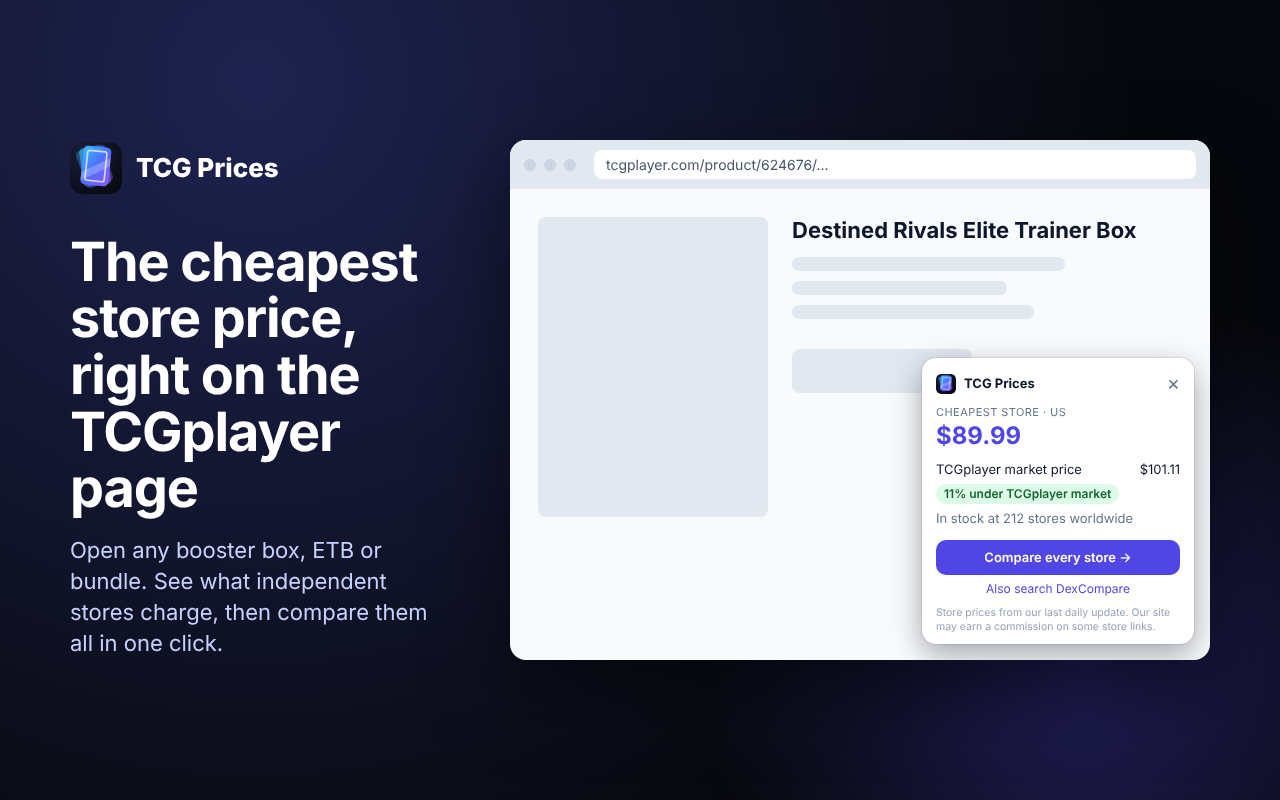
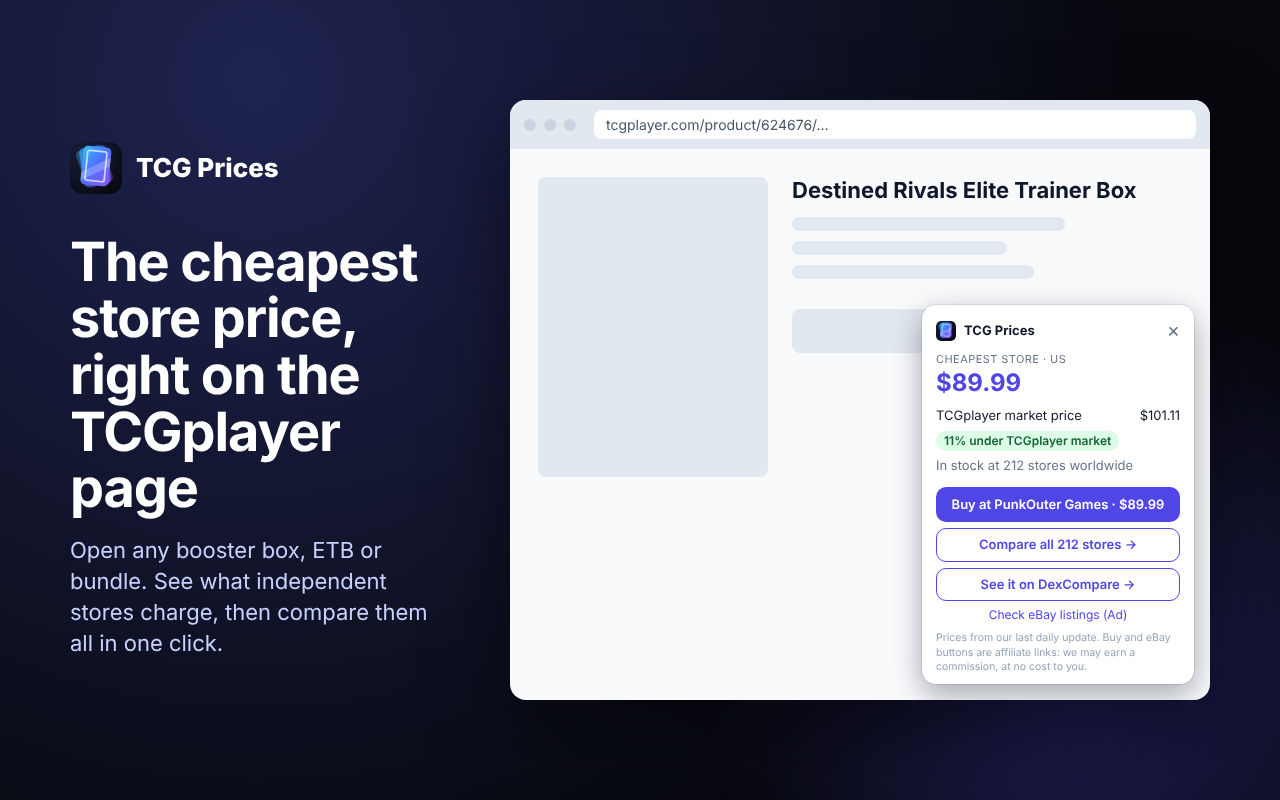
Extension v1.1.0: buy button, game-site links, deals; fix install test (#143)
* Chrome buying assistant: extension engine, /extension.json and the install page

The TCG Prices extension shows the cheapest in-stock store price on TCGplayer product pages, matched only by the
TCGplayer id in the URL, and links to our product page. No affiliate injection; no data collected.
DECISIONS.md 2026-11-21.

Claude-Session: https://claude.ai/code/session_01FFgMDY8mBNYGcDeCfknh71

* Extension v1.1.0: buy button through /go, game-site and eBay buttons, deals in the popup; fix install test

Claude-Session: https://claude.ai/code/session_01FFgMDY8mBNYGcDeCfknh71

---------

diff --git a/src/lib/extension-feed.ts b/src/lib/extension-feed.ts
@@ -26,6 +26,8 @@ export interface ExtensionItem {
   m: number | null;
   /** cheapest in-stock store price per market, that market's own cents */
   p: Partial<Record<Market, number>>;
+  /** the cheapest store per market: [store key, its listing URL] for the panel's "Buy at" button (through /go) */
+  b?: Partial<Record<Market, [string, string]>>;
   /** 1 when the set is not out yet (every store price is a pre-order) */
   pre?: 1;
 }
@@ -37,7 +39,11 @@ export interface ExtensionFeed {
   generatedAt: string;
   currency: Record<string, string>;
   /** game id to its name, and the sister site that covers it (search link only) */
-  lines: Record<string, { name: string; sister?: { name: string; search: string } }>;
+  lines: Record<string, { name: string; ebay: string; sister?: { name: string; url: string; search: string } }>;
+  /** store key to display name, for the "Buy at" button */
+  stores: Record<string, string>;
+  /** our TCG sites, for the popup's links (this site first) */
+  sites: { name: string; url: string; game: string }[];
   items: Record<string, ExtensionItem>;
 }
 
@@ -55,13 +61,17 @@ const SISTER_OF_LINE: Record<string, string> = {
 
 /** Pure: the cheapest in-stock store offer per market (no TCGplayer, eBay or Amazon). */
 export function cheapestStores(best: Offer[]): Partial<Record<Market, number>> {
-  const out: Partial<Record<Market, number>> = {};
+  return Object.fromEntries(Object.entries(cheapestStoreOffers(best)).map(([m, o]) => [m, o.cents]));
+}
+
+export function cheapestStoreOffers(best: Offer[]): Partial<Record<Market, Offer>> {
+  const out: Partial<Record<Market, Offer>> = {};
   for (const o of best) {
     if (!o.inStock || !(o.cents > 0)) continue;
     if (o.source === "tcgplayer" || o.source === "ebay" || o.source === "amazon") continue;
     if (o.currency !== CURRENCY[o.market]) continue;
     const cur = out[o.market];
-    if (cur == null || o.cents < cur) out[o.market] = o.cents;
+    if (cur == null || o.cents < cur.cents) out[o.market] = o;
   }
   return out;
 }
@@ -71,21 +81,25 @@ export function buildExtensionFeed(now = new Date()): ExtensionFeed {
   const used = new Set<string>();
   for (const p of products()) {
     const sum = summaryOf(p.id);
-    const prices = cheapestStores(sum.best);
+    const cheapest = cheapestStoreOffers(sum.best);
+    const prices = Object.fromEntries(Object.entries(cheapest).map(([m, o]) => [m, o.cents])) as Partial<Record<Market, number>>;
+    const buy = Object.fromEntries(Object.entries(cheapest).filter(([, o]) => /^https:\/\//.test(o.url)).map(([m, o]) => { used.add(`s:${o.source}`); return [m, [o.source, o.url]]; }));
     const ref = refCents(p.id);
     if (!Object.keys(prices).length && ref == null) continue;
     const set = setById(p.setId);
     const g = set?.line ?? null;
     if (g) used.add(g);
     const upcoming = !!set?.releasedOn && set.releasedOn > now.toISOString().slice(0, 10);
-    items[p.id] = { n: p.number ? `${p.name} ${p.number}` : p.name, u: `/card/${p.slug}`, g, s: sum.inStockSources, m: ref, p: prices, ...(upcoming ? { pre: 1 as const } : {}) };
+    items[p.id] = { n: p.number ? `${p.name} ${p.number}` : p.name, u: `/card/${p.slug}`, g, s: sum.inStockSources, m: ref, p: prices, ...(Object.keys(buy).length ? { b: buy } : {}), ...(upcoming ? { pre: 1 as const } : {}) };
   }
   const lines: ExtensionFeed["lines"] = {};
   for (const l of SITE.lines ?? []) {
     if (!used.has(l.id)) continue;
     const sis = SITE.sisterSites.find((s) => s.name === SISTER_OF_LINE[l.id]);
-    lines[l.id] = { name: l.name, ...(sis?.search ? { sister: { name: sis.name, search: sis.search } } : {}) };
+    lines[l.id] = { name: l.name, ebay: l.ebayQuery, ...(sis?.search ? { sister: { name: sis.name, url: sis.url, search: sis.search } } : {}) };
   }
+  const stores = Object.fromEntries(SITE.stores.filter((s) => used.has(`s:${s.key}`)).map((s) => [s.key, s.name]));
+  const sites = [{ name: SITE.name, url: SITE_URL, game: "Every game" }, ...SITE.sisterSites.filter((s) => s.search).map((s) => ({ name: s.name, url: s.url, game: s.game }))];
   return {
     v: 1,
     site: SITE.name,
@@ -93,6 +107,8 @@ export function buildExtensionFeed(now = new Date()): ExtensionFeed {
     generatedAt: now.toISOString(),
     currency: Object.fromEntries(MARKETS.map((m) => [m, CURRENCY[m]])),
     lines,
+    stores,
+    sites,
     items,
   };
 }

diff --git a/extension/src/popup.js b/extension/src/popup.js
@@ -45,37 +45,85 @@
     return scored.sort((a, b) => b.s - a.s).slice(0, 25).map((x) => x.row);
   }
 
-  function show(rows, emptyText) {
+  function show(rows, emptyText, title = "") {
     const ul = $("results");
     ul.textContent = "";
+    $("listTitle").textContent = title;
     const market = $("market").value;
     const cur = feed?.currency?.[market] ?? "USD";
-    for (const { it } of rows) {
+    for (const { id, it } of rows) {
       const a = document.createElement("a");
-      a.href = tagged(feed.home + it.u, "popup-search");
+      a.className = "row";
+      a.href = tagged(feed.home + it.u, title ? "popup-deals" : "popup-search");
       a.target = "_blank";
       a.rel = "noopener";
       const n = document.createElement("span");
       n.className = "n";
       n.textContent = it.n;
       const sm = document.createElement("small");
+      const c = it.p[market];
+      const pct = market === "US" && c != null && it.m ? Math.round((1 - c / it.m) * 100) : 0;
       sm.textContent = [feed.lines[it.g]?.name, it.s ? `${it.s} stores in stock` : null, it.pre ? "pre-order" : null].filter(Boolean).join(" · ");
+      if (pct >= 5) {
+        const sv = document.createElement("span");
+        sv.className = "save";
+        sv.textContent = ` · ${pct}% under TCGplayer`;
+        sm.append(sv);
+      }
       n.append(sm);
       const p = document.createElement("span");
-      const c = it.p[market];
       p.className = c != null ? "p" : "p none";
       p.textContent = c != null ? money(c, cur) : `none in ${MARKET_LABEL[market]}`;
       a.append(n, p);
       const li = document.createElement("li");
       li.append(a);
+      const b = it.b?.[market];
+      if (b && c != null) {
+        const buy = document.createElement("a");
+        buy.className = "buy";
+        buy.href = goUrl(feed.home, b[1], b[0], market, id, title ? "popup-deals-buy" : "popup-buy");
+        buy.target = "_blank";
+        buy.rel = "noopener sponsored";
+        buy.textContent = "Buy";
+        buy.title = `Buy at ${feed.stores?.[b[0]] ?? "the store"}`;
+        li.append(buy);
+      }
       ul.append(li);
     }
     if (!rows.length && emptyText) status(emptyText);
   }
 
+  /** With the search box empty: today's best store prices under TCGplayer's market (US), else the most stocked products. */
+  function deals() {
+    if (!index) return;
+    const market = $("market").value;
+    let rows;
+    if (market === "US") {
+      rows = index
+        .filter(({ it }) => it.p.US != null && it.m && it.m >= 2000 && it.s >= 3 && !it.pre && it.p.US < it.m * 0.9 && it.p.US > it.m * 0.4)
+        .sort((a, b) => a.it.p.US / a.it.m - b.it.p.US / b.it.m)
+        .slice(0, 12);
+      show(rows, "", "Today's deals under TCGplayer market");
+    } else {
+      rows = index.filter(({ it }) => it.p[market] != null && !it.pre).sort((a, b) => b.it.s - a.it.s).slice(0, 12);
+      show(rows, "", `Most stocked in ${MARKET_LABEL[market]}`);
+    }
+  }
+
+  for (const s of feed?.sites ?? []) {
+    const a = document.createElement("a");
+    a.href = tagged(s.url, "popup-sites");
+    a.target = "_blank";
+    a.rel = "noopener";
+    a.textContent = s.name;
+    a.title = s.game;
+    $("sites").append(a);
+  }
+
   let t = 0;
   const run = () => {
     const q = $("q").value;
+    if (!q.trim()) return deals();
     const rows = search(q);
     show(rows, q.trim() ? `No match for “${q.trim()}”. Try fewer words.` : "");
     if (rows.length) status(`${rows.length} match${rows.length === 1 ? "" : "es"} · tap one to compare every store`);
@@ -103,5 +151,6 @@
     $("q").value = title.trim();
     run();
   });
+  deals();
   $("q").focus();
 })();

diff --git a/extension/src/content.js b/extension/src/content.js
@@ -93,19 +93,33 @@
     }
     if (item.s > 0) rows.append(el("div", { class: "row muted" }, el("span", { text: `In stock at ${item.s} ${item.s === 1 ? "store" : "stores"} worldwide` })));
 
-    const cta = el("a", { class: "cta", href: pageUrl, target: "_blank", rel: "noopener" });
-    cta.textContent = "Compare every store →";
-
-    const extra = [];
-    if (line?.sister?.search) {
+    const btns = [];
+    const buy = item.b?.[market];
+    if (buy && store != null) {
+      // The cheapest store's own listing, through our /go link (logs the click, adds the store's affiliate tag if it has one).
+      const a = el("a", { class: "cta", href: goUrl(res.home, buy[1], buy[0], market, id, "panel-buy"), target: "_blank", rel: "noopener sponsored" });
+      a.textContent = `Buy at ${res.stores?.[buy[0]] ?? "the store"} · ${money(store, cur)}`;
+      btns.push(a);
+    }
+    const cmp = el("a", { class: buy ? "cta2" : "cta", href: pageUrl, target: "_blank", rel: "noopener" });
+    cmp.textContent = item.s > 1 ? `Compare all ${item.s} stores →` : "Compare stores on " + CONFIG.short + " →";
+    btns.push(cmp);
+    if (line?.sister) {
       const name = item.n.replace(/\s+/g, " ").slice(0, 100);
-      const a = el("a", { class: "sis", href: tagged(line.sister.search.replace("{q}", encodeURIComponent(name)), "panel-sister"), target: "_blank", rel: "noopener" });
-      a.textContent = `Also search ${line.sister.name}`;
-      extra.push(a);
+      const href = line.sister.search ? line.sister.search.replace("{q}", encodeURIComponent(name)) : line.sister.url;
+      const a = el("a", { class: "cta2", href: tagged(href, "panel-sister"), target: "_blank", rel: "noopener" });
+      a.textContent = `See it on ${line.sister.name} →`;
+      btns.push(a);
+    }
+    const eb = ebaySearch(market, `${line?.ebay ?? ""} ${item.n}`.trim());
+    if (eb) {
+      const a = el("a", { class: "sis", href: goUrl(res.home, eb, "ebay", market, id, "panel-ebay"), target: "_blank", rel: "noopener sponsored" });
+      a.textContent = "Check eBay listings (Ad)";
+      btns.push(a);
     }
 
-    const foot = el("div", { class: "foot", text: "Store prices from our last daily update. Our site may earn a commission on some store links." });
-    root.append(el("div", { class: "card", role: "complementary", "aria-label": `${CONFIG.short} price check` }, head, rows, cta, ...extra, foot));
+    const foot = el("div", { class: "foot", text: "Prices from our last daily update. Buy and eBay buttons are affiliate links: we may earn a commission, at no cost to you." });
+    root.append(el("div", { class: "card", role: "complementary", "aria-label": `${CONFIG.short} price check` }, head, rows, ...btns, foot));
     document.documentElement.append(host);
   }
 
@@ -126,6 +140,8 @@
     .save{display:inline-block;margin:4px 0;padding:2px 8px;border-radius:99px;background:#dcfce7;color:#166534;font-weight:600;font-size:12px}
     .cta{display:block;margin-top:10px;text-align:center;background:${CONFIG.brand};color:#fff;text-decoration:none;font-weight:600;padding:9px 10px;border-radius:10px}
     .cta:hover{background:${CONFIG.brandDark}}
+    .cta2{display:block;margin-top:6px;text-align:center;background:#fff;color:${CONFIG.brand};border:1.5px solid ${CONFIG.brand};text-decoration:none;font-weight:600;padding:7px 10px;border-radius:10px}
+    .cta2:hover{background:#eef2ff}
     .sis{display:block;margin-top:6px;text-align:center;color:${CONFIG.brand};text-decoration:none;font-size:12px}
     .sis:hover{text-decoration:underline}
     .foot{margin-top:8px;font-size:10.5px;color:#94a3b8}

diff --git a/extension/src/popup.css b/extension/src/popup.css
@@ -11,8 +11,8 @@ input[type=search]:focus,select:focus{outline:2px solid var(--brand);outline-off
 .ghost{display:block;margin:8px 12px 0;width:calc(100% - 24px);font:inherit;font-weight:600;color:var(--brand);background:#eef2ff;border:0;border-radius:8px;padding:8px;cursor:pointer}
 .ghost:hover{background:#e0e7ff}
 ul{list-style:none;margin:8px 0 0;padding:0;max-height:330px;overflow:auto}
-li a{display:flex;gap:10px;justify-content:space-between;align-items:baseline;padding:8px 12px;color:inherit;text-decoration:none;border-top:1px solid #f1f5f9}
-li a:hover{background:#f8fafc}
+li a.row{display:flex;gap:10px;justify-content:space-between;align-items:baseline;padding:8px 12px;color:inherit;text-decoration:none;border-top:1px solid #f1f5f9}
+li a.row:hover{background:#f8fafc}
 .n{flex:1;min-width:0}
 .n small{display:block;color:#64748b}
 .p{font-weight:700;color:var(--brand);white-space:nowrap}
@@ -21,3 +21,14 @@ li a:hover{background:#f8fafc}
 footer{border-top:1px solid #e2e8f0;margin-top:8px;padding:8px 0 10px}
 footer label{display:flex;gap:6px;align-items:center;margin:0 12px}
 footer a{color:var(--brand)}
+h2{font-size:11px;text-transform:uppercase;letter-spacing:.05em;color:#64748b;margin:12px 12px 0}
+h2:empty{display:none}
+li{display:flex;align-items:center;border-top:1px solid #f1f5f9}
+li a.row{flex:1;border-top:0}
+.buy{margin-right:10px;font-weight:600;font-size:12px;color:#fff;background:var(--brand);border-radius:7px;padding:5px 9px;text-decoration:none;white-space:nowrap}
+.buy:hover{filter:brightness(.9)}
+.save{color:#166534;font-weight:600}
+#sites{display:flex;flex-wrap:wrap;gap:6px;padding:10px 12px 0;border-top:1px solid #e2e8f0;margin-top:8px}
+#sites a{font-size:12px;font-weight:600;color:var(--brand);background:#eef2ff;border-radius:99px;padding:4px 10px;text-decoration:none}
+#sites a:hover{background:#e0e7ff}
+footer{border-top:0}

diff --git a/src/app/extension/page.tsx b/src/app/extension/page.tsx
@@ -17,7 +17,7 @@ export default function ExtensionPage() {
     <StaticPage title="The TCG Prices Chrome extension">
       <p>
         Open a sealed product on TCGplayer and a small panel shows the cheapest in-stock price we track at independent stores in your market, beside TCGplayer&apos;s
-        market price, with one link to compare every store on {SITE.name}. It covers booster boxes, Elite Trainer Boxes, bundles, cases and decks for every game we list.
+        market price, with a button to buy at that store, one to compare every store on {SITE.name}, and one to the game&apos;s own price site (DexCompare, Rift Compare, MTG Compare and the rest). It covers booster boxes, Elite Trainer Boxes, bundles, cases and decks for every game we list.
       </p>
       {install ? (
         <p>
@@ -45,9 +45,9 @@ export default function ExtensionPage() {
       </p>
       <h2>How it earns</h2>
       <p>
-        The extension changes no links on TCGplayer or any other site and adds no affiliate code to them. Its links open our own product pages, marked as coming from the
-        extension. Some store, eBay, TCGplayer and Amazon links on our site are affiliate links that may earn us a commission when you buy, at no cost to you; they never
-        change the order of prices.
+        The extension changes no links on TCGplayer or any other site and adds no code to them. Its own &quot;Buy at&quot; and &quot;Check eBay&quot; buttons go
+        through our site, which adds the store&apos;s or eBay&apos;s affiliate tag where one exists: we may earn a commission when you buy, at no cost to you. The
+        buttons are labelled, and commission never changes which price is shown as cheapest.
       </p>
       <h2>Permissions</h2>
       <ul>

diff --git a/tests/extension.test.ts b/tests/extension.test.ts
@@ -36,11 +36,15 @@ test("the extension asks for the narrowest permissions and never touches another
   assert.deepEqual(m.host_permissions, ["https://tcgprices.app/*"]);
   assert.ok(site.matches.every((u: string) => /^https:\/\/(www\.)?tcgplayer\.com\/product\/\*$/.test(u)));
   assert.ok(site.description.length <= 132);
+  // Chrome refuses a web_accessible_resources pattern with a path (it failed the store's install test, 2026-11-22).
+  for (const w of m.web_accessible_resources) for (const u of w.matches) assert.match(u, /^https:\/\/[^/]+\/\*$/);
   const content = fs.readFileSync("extension/src/content.js", "utf8");
   // No affiliate injection: it never rewrites or reads the page's links, and never builds an eBay/Amazon/TCGplayer link.
   assert.doesNotMatch(content, /querySelectorAll\(["']a/);
   assert.doesNotMatch(content, /\.href\s*=/);
   assert.doesNotMatch(content, /campid|ascsubtag|partner\.tcgplayer|tag=/);
+  // Its own buy buttons go through our /go route (affiliate tag added there, click counted), never straight out.
+  assert.match(fs.readFileSync("extension/src/shared.js", "utf8"), /\$\{home\}\/go\?/);
   // No remote code (Chrome Web Store policy): no eval, no injected script tags.
   for (const f of fs.readdirSync("extension/src")) {
     const s = fs.readFileSync(`extension/src/${f}`, "utf8");

diff --git a/extension/src/popup.html b/extension/src/popup.html
@@ -14,11 +14,13 @@
   <input id="q" type="search" placeholder="Search sealed product… (e.g. Prismatic ETB)" autocomplete="off" aria-label="Search">
 </form>
 <button id="page" type="button" class="ghost">Find the product on this page</button>
+<h2 id="listTitle"></h2>
 <ul id="results" aria-live="polite"></ul>
 <p id="status" class="muted"></p>
+<nav id="sites" aria-label="Our price comparison sites"></nav>
 <footer>
   <label><input id="panel" type="checkbox"> Show the price panel on TCGplayer product pages</label>
-  <p class="muted">Prices are the cheapest in-stock store price per market from our last daily update. Links open our site, which may earn a commission on some store links. <a id="about" target="_blank" rel="noopener">How it works &amp; privacy</a></p>
+  <p class="muted">Prices are the cheapest in-stock store price per market from our last daily update. "Buy" and eBay buttons are affiliate links: we may earn a commission, at no cost to you. <a id="about" target="_blank" rel="noopener">How it works &amp; privacy</a></p>
 </footer>
 <script src="config.js"></script>
 <script src="shared.js"></script>

diff --git a/extension/src/shared.js b/extension/src/shared.js
@@ -36,3 +36,16 @@ function money(cents, currency) {
     return `${(cents / 100).toFixed(2)} ${currency}`;
   }
 }
+
+/** A buy link through our own /go route: it checks the host, adds the affiliate tag where one exists, and counts the click. */
+function goUrl(home, url, source, market, productId, content) {
+  const q = new URLSearchParams({ u: url, s: source, m: market, from: `ext-${content}` });
+  if (productId) q.set("p", String(productId));
+  return `${home}/go?${q}`;
+}
+
+/** eBay's own search for a product, sorted cheapest first; null in a market with no eBay site we link. */
+function ebaySearch(market, query) {
+  const host = { US: "www.ebay.com", UK: "www.ebay.co.uk", AU: "www.ebay.com.au", CA: "www.ebay.ca" }[market];
+  return host ? `https://${host}/sch/i.html?_nkw=${encodeURIComponent(query.replace(/\s+/g, " ").slice(0, 120))}&_sop=15` : null;
+}

diff --git a/extension/src/background.js b/extension/src/background.js
@@ -44,7 +44,9 @@ chrome.runtime.onMessage.addListener((msg, _sender, reply) => {
       if (msg?.type === "lookup") {
         const feed = await loadFeed();
         const item = feed.items[String(msg.id)] ?? null;
-        reply({ ok: true, item, line: item?.g ? feed.lines[item.g] ?? null : null, currency: feed.currency, home: feed.home, generatedAt: feed.generatedAt });
+        const buy = item?.b ? Object.values(item.b).map((x) => x[0]) : [];
+        const stores = Object.fromEntries(buy.map((k) => [k, feed.stores?.[k] ?? k]));
+        reply({ ok: true, item, line: item?.g ? feed.lines[item.g] ?? null : null, stores, currency: feed.currency, home: feed.home, generatedAt: feed.generatedAt });
       } else if (msg?.type === "feed") {
         reply({ ok: true, feed: await loadFeed(!!msg.force) });
       } else reply({ ok: false });

diff --git a/DECISIONS.md b/DECISIONS.md
@@ -1402,3 +1402,14 @@ assistant and send people to our sites' buy links. `extension/` is one Manifest 
   extensions with duplicate functionality, and a strike is account-wide. The TCG Prices extension covers every game
   and links each product's sister site; a sister gets its own extension only where it does something the TCG Prices
   one cannot (e.g. singles on Rift or OP Compare), staggered after the first is approved.
+
+## 2026-11-22: The extension asks for the click
+
+Bill (2026-11-22): the first build was too passive, and should link our flagship game sites. v1.1.0: the panel leads with
+"Buy at <cheapest store> · $X", then "Compare all N stores", then "See it on <the game's site>" (DexCompare, Rift Compare,
+MTG Compare…), then "Check eBay listings (Ad)". The popup opens on today's deals (US: in-stock store prices 10-60% under
+TCGplayer's market, 3+ stores) with a Buy button per row, and lists our TCG sites. Every buy and eBay button goes through
+`/go` (host allow-list, affiliate tag where one exists, `from=ext-…` in the click log), never straight to a shop, and is
+disclosed on the panel, the popup and the store listing. Still no link on another site is changed (Chrome policy).
+`/extension.json` grows to ~2.1 MB (~440 KB gzipped) for the cheapest store's URL per market.
+v1.0.0 failed the store's install test: `web_accessible_resources` matches must be `https://host/*`, not a path.
